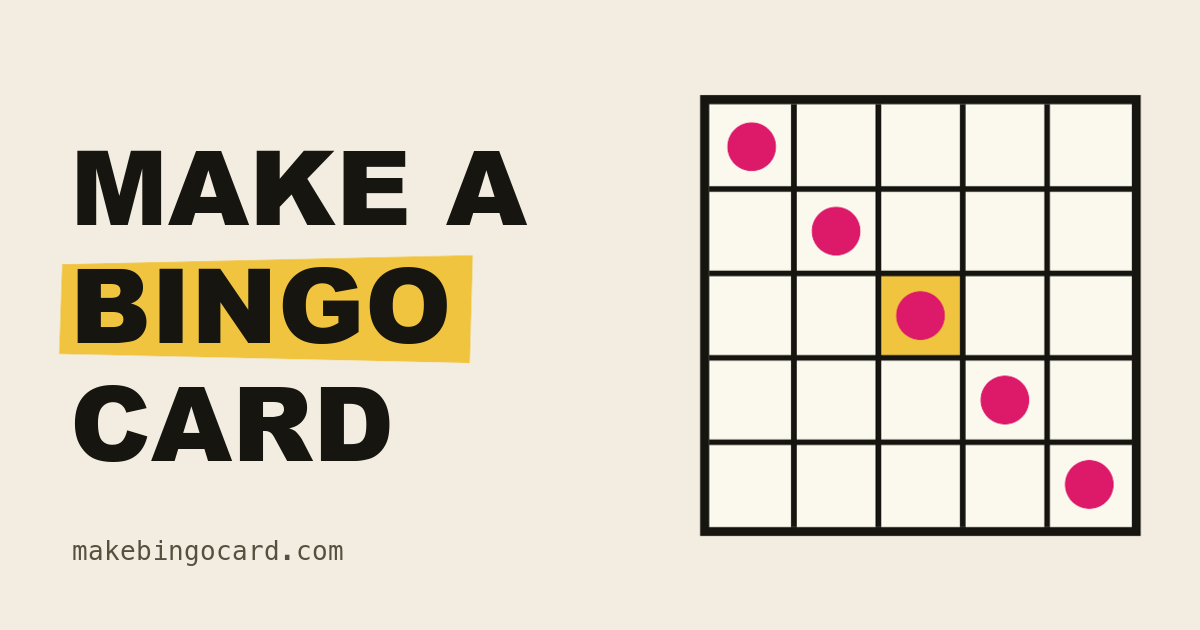
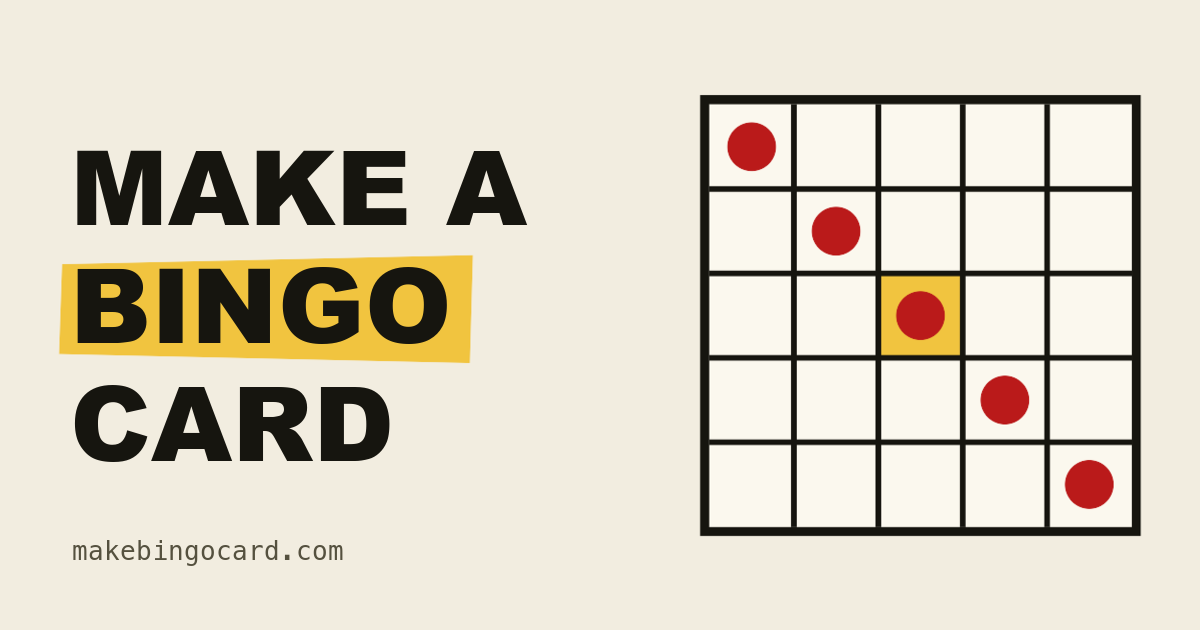
Move the accent from pink to red
Light goes to #BA1A1A, dark to #F75C5C. Both sit at hue 0, so the two themes
are the same red at two lightnesses rather than two different colors.

The dark value has to be light enough to clear 4.5:1 against both the dark
ground and the near-black text that rides on accent fills, which pulls a pure
red toward coral. #F75C5C is the closest to hue 0 that still passes on both
sides.

Contrast is clean in both themes with no failures, and the lowest pair moved
from 4.67 to 4.90.

Also regenerates the favicon, apple touch icon, and OG image, which carried the
old accent, and updates the print block's accent to a dark red.

diff --git a/src/index.css b/src/index.css
@@ -18,12 +18,12 @@
   --ink:        22  21  15;   /* #16150F  near-black             */
   --ink-2:      85  81  63;   /* #55513F  secondary text         */
   --rule:      201 192 168;   /* #C9C0A8  hairlines              */
-  --accent:    188  20  95;   /* #BC145F  dauber red             */
+  --accent:    186  26  26;   /* #BA1A1A  dauber red             */
   --marker:    241 196  63;   /* #F1C43F  highlighter, sparingly */
 
   /* Foreground for anything sitting ON an accent fill. The accent flips
      lightness between themes, so its foreground has to flip too: paper on
-     the deep light accent (5.81:1), ink on the light dark accent (5.49:1).
+     the deep light accent (6.08:1), ink on the light dark accent (5.78:1).
      Using --paper for both scored 3.13:1 in dark. */
   --on-accent: 251 248 238;
 
@@ -43,7 +43,7 @@
     --ink:      240 234 218;
     --ink-2:    169 164 146;
     --rule:      59  55  41;
-    --accent:   242  80 141;
+    --accent:   247  92  92;
     --marker:   244 206  85;
     --on-accent: 22 21 15;
     color-scheme: dark;
@@ -57,7 +57,7 @@
   --ink:      240 234 218;
   --ink-2:    169 164 146;
   --rule:      59  55  41;
-  --accent:   242  80 141;
+  --accent:   247  92  92;
   --marker:   244 206  85;
   --on-accent: 22 21 15;
   color-scheme: dark;
@@ -113,7 +113,7 @@ body::before {
     --ink: 0 0 0;
     --ink-2: 60 60 60;
     --rule: 180 180 180;
-    --accent: 160 20 85;
+    --accent: 150 20 20;
     --on-accent: 255 255 255;
     color-scheme: light;
   }

diff --git a/dist/index.html b/dist/index.html
@@ -77,8 +77,8 @@
       "description": "Create, customize, and print your own custom bingo cards for free. Generate PDF files with randomized squares for any event or theme."
     }
     </script>
-    <script type="module" crossorigin src="/assets/index-DC3z2URP.js"></script>
-    <link rel="stylesheet" crossorigin href="/assets/index-h0exlFa4.css">
+    <script type="module" crossorigin src="/assets/index-wg8559Mk.js"></script>
+    <link rel="stylesheet" crossorigin href="/assets/index-CCYp8VRm.css">
   </head>
   <body>
     <div id="root"></div>
